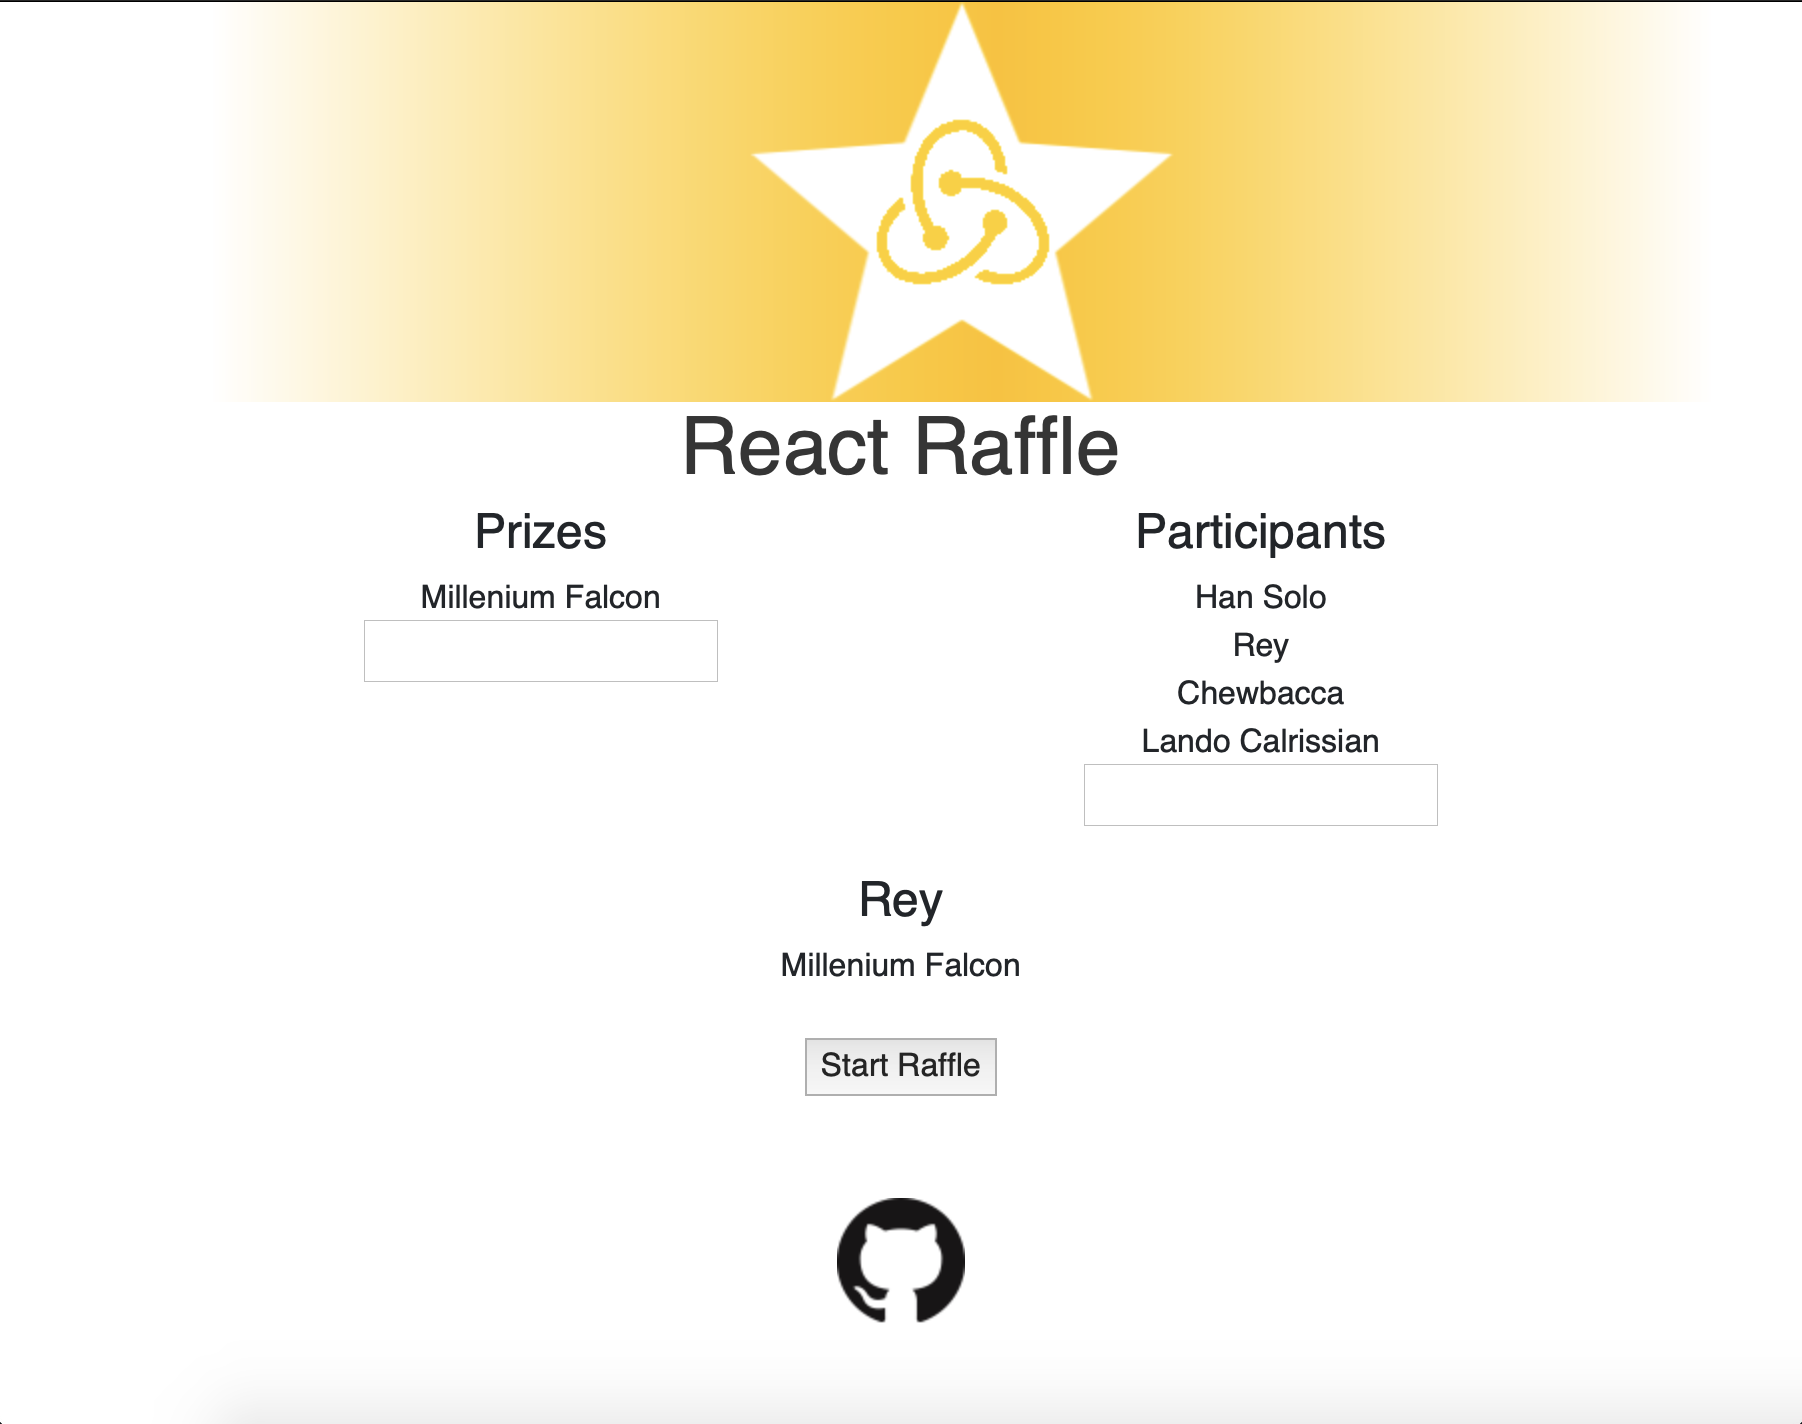
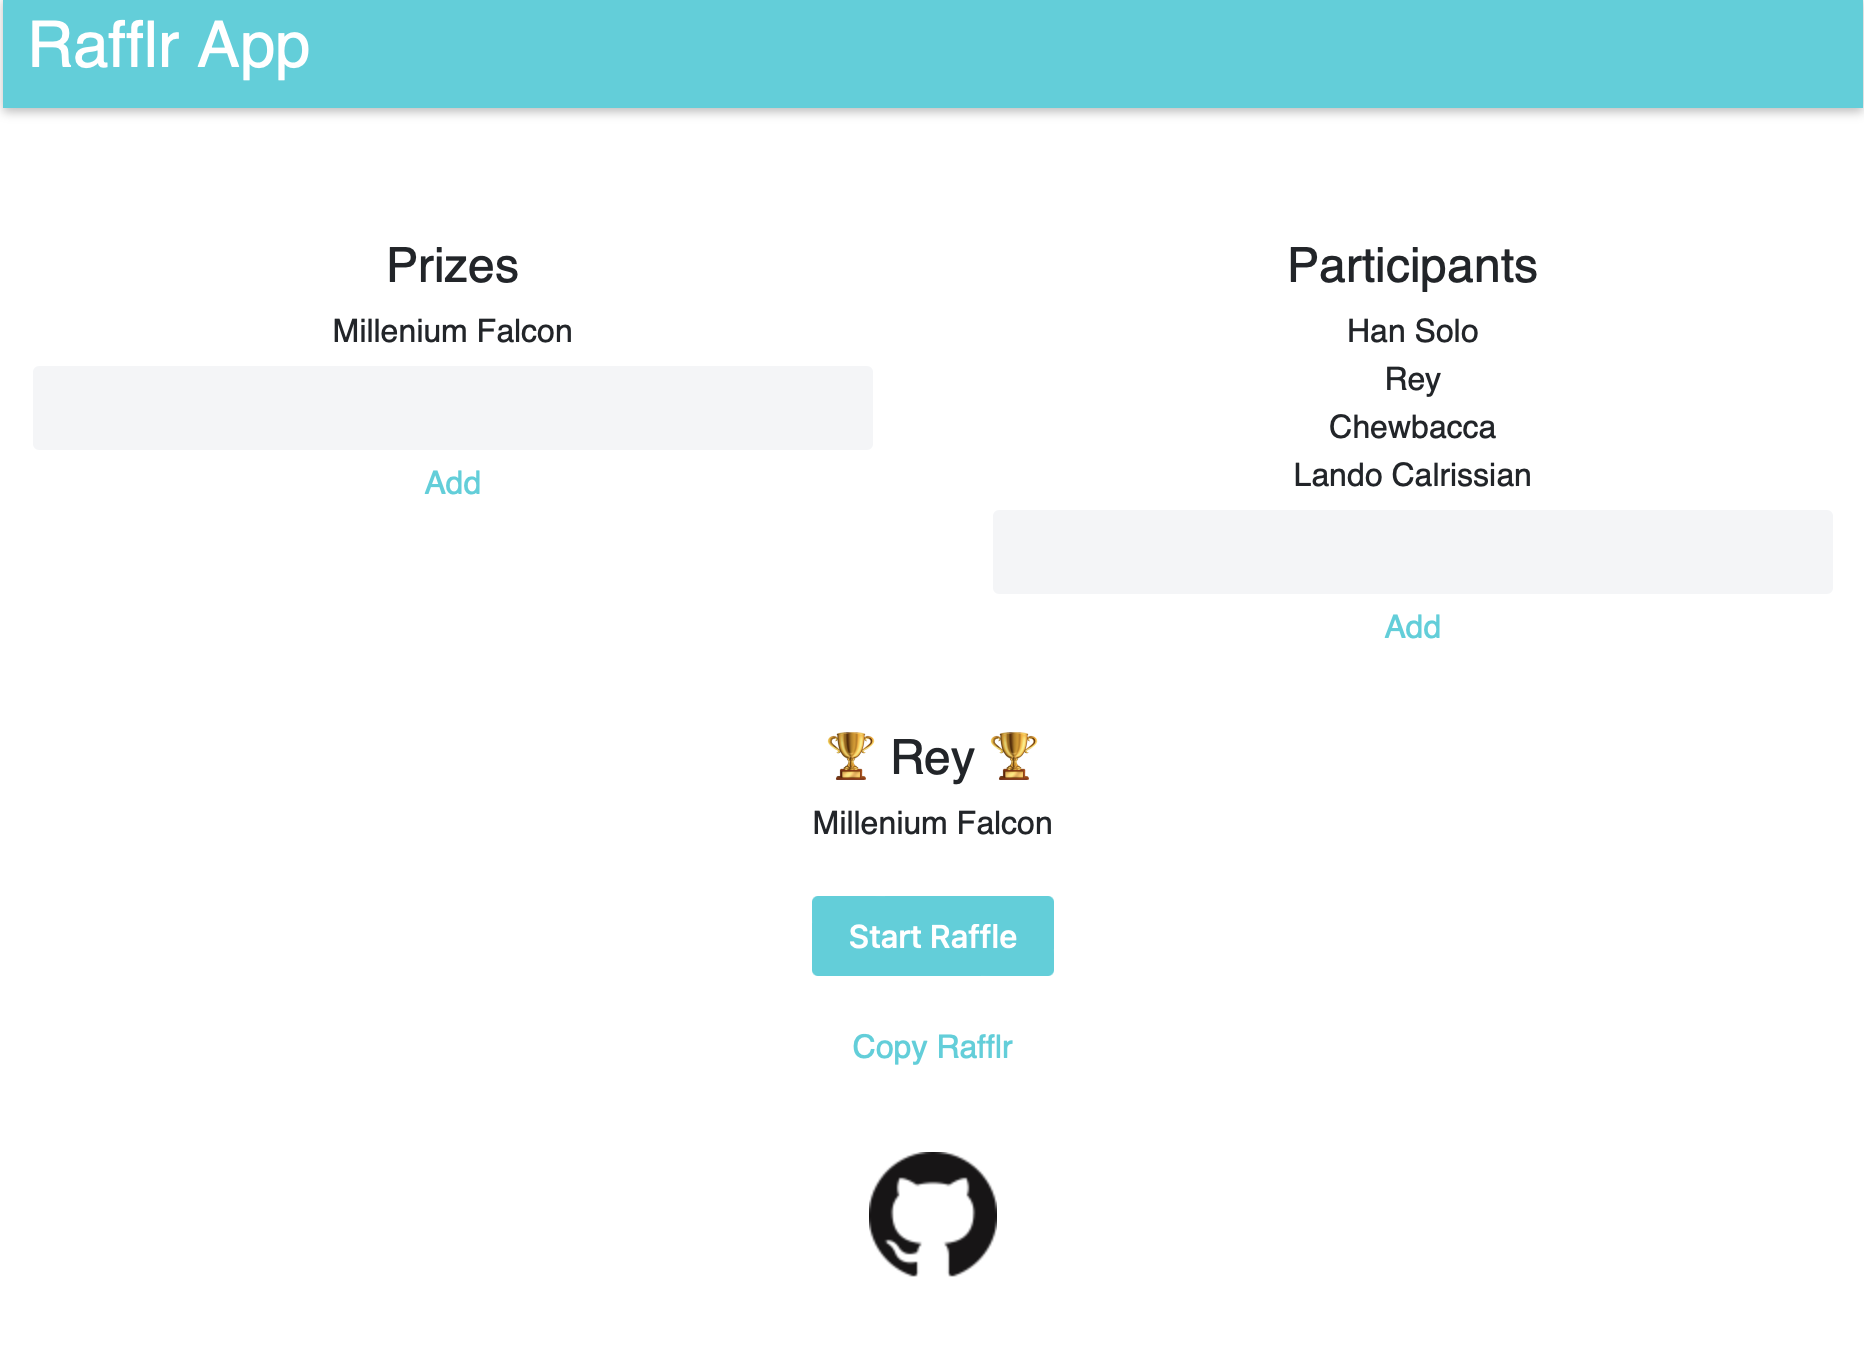
Generate and copy Rafflr into clipboard for future use (#58)
* Generate and copy Rafflr into clipboard for future use

* Updated readme with latest visuals and features

diff --git a/src/App.js b/src/App.js
@@ -27,6 +27,9 @@ class Lottery extends Component {
 
     this.runLottery = this.runLottery.bind(this);
     this.runLotteryWithDelay = this.runLotteryWithDelay.bind(this);
+
+    this.generateAndCopyRafflr = this.generateAndCopyRafflr.bind(this);
+
     this.sleep = this.sleep.bind(this);
     this.decorateWinners = this.decorateWinners.bind(this);
 
@@ -71,6 +74,14 @@ class Lottery extends Component {
         <div className="row">
           <div className="col">
             <button disabled={false} onClick={this.runLotteryWithDelay}>Start Raffle</button>
+          </div>
+        </div>
+        <div className={"row"}>
+          <div className={"col"}>&nbsp;</div>
+        </div>
+        <div className={"row"}>
+          <div className="col">
+            <a href="#" onClick={this.generateAndCopyRafflr}>Copy Rafflr</a>
           </div>
         </div>
         <div className={"row"}>
@@ -128,6 +139,19 @@ class Lottery extends Component {
     this.setState({ results: this.results });
   }
 
+  // Gets current URL and copy it to clipboard
+  generateAndCopyRafflr(event) {
+    var rafflrUrl = window.location.origin + "?Participants=" + this.participants.join(";") + "&Prizes=" + this.prizes.join(";");
+    
+    navigator.clipboard.writeText(rafflrUrl).then(function() {
+      console.info('Rafflr URL copied to clipboard');
+    }, function() {
+      console.warn('Failed to copy Rafflr URL to clipboard');
+    });
+
+    event ? event.preventDefault() : null;
+  }
+
   decorateWinners() {    
     this.results.forEach((result) => {
       result.winner = "🏆 " + result.winner + " 🏆";
@@ -174,6 +198,12 @@ class Lottery extends Component {
   addPrize(event, newPrize) {
     var newEntry = newPrize ?? this.state.newPrize;
 
+    if (newEntry.trim() === "")
+    {
+      console.warn("Empty prize cannot be added");
+      return;
+    }
+
     newEntry.split(";").forEach((entry) => {
       if(this.prizes.includes(entry.trim())) {
         console.info("price already in the list");
@@ -195,6 +225,12 @@ class Lottery extends Component {
 
   addParticipant(event, newParticipant) {
     var newEntry = newParticipant ?? this.state.newParticipant;
+
+    if (newEntry.trim() === "")
+    {
+      console.warn("Empty participant cannot be added");
+      return;
+    }
 
     newEntry.split(";").forEach((entry) => {
       if (this.participants.includes(entry.trim())) {

diff --git a/README.md b/README.md
@@ -3,8 +3,10 @@
 
 This is a simple app to do Raffles.
 
-To use it, just add as many prizes and participants as you want by simply entering the value and pressing Enter (you can add several entries at the same time separated by semi-colon `;`). Press `Start Raffle` button to perform the raffle.
+![Screenshot of the app](screenshot.png)
+
+To use it, just add as many prizes and participants as you want by simply entering the value and pressing Enter (you can add several entries at the same time separated by semi-colon `;`). Press **Start Raffle** button to perform the raffle.
+
+You can _save_ a Rafflr by adding two query parameters, `Prizes` and `Participants`, with a colon `;` separated list of items. You can also save your current Raffle by clicking in **Copy Rafflr** link below the **Start Raffle** button. This will generate the url with the prizes and participants list set with the current items and copy it to the clipboard (note tihs might not work on all borwsers if they don't support it).
 
 When the Raffle is performed, if there are more prizes than participants, and prizes cannot be equitably assigned to all participants, some prizes will be **To Share**, because sharing is caring.
-
-![Screenshot of the app](screenshot.png)
